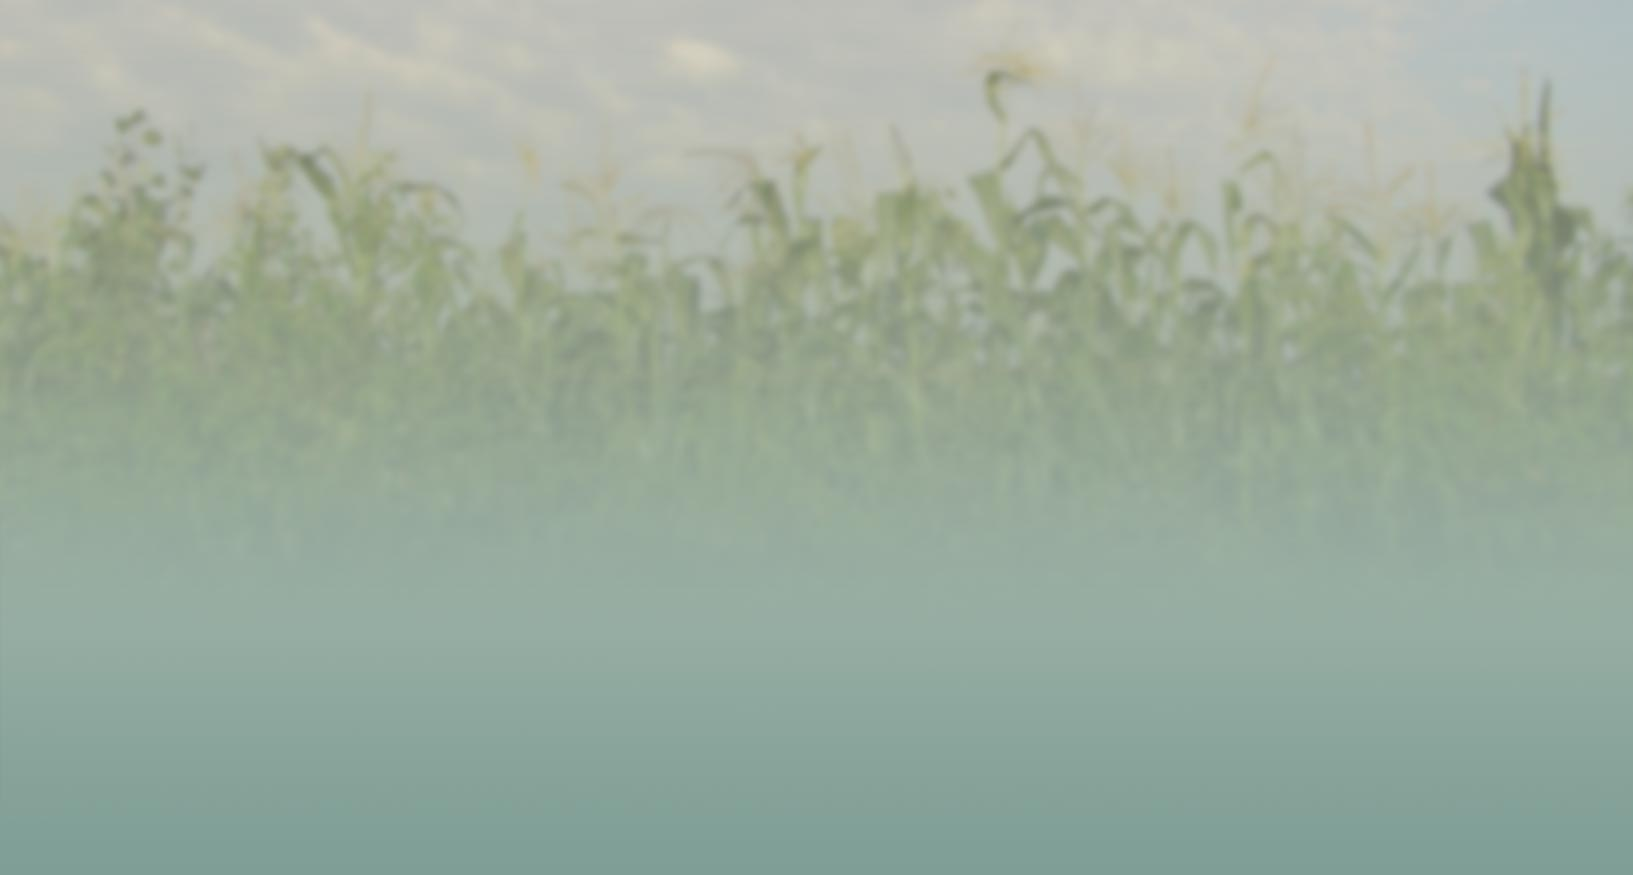
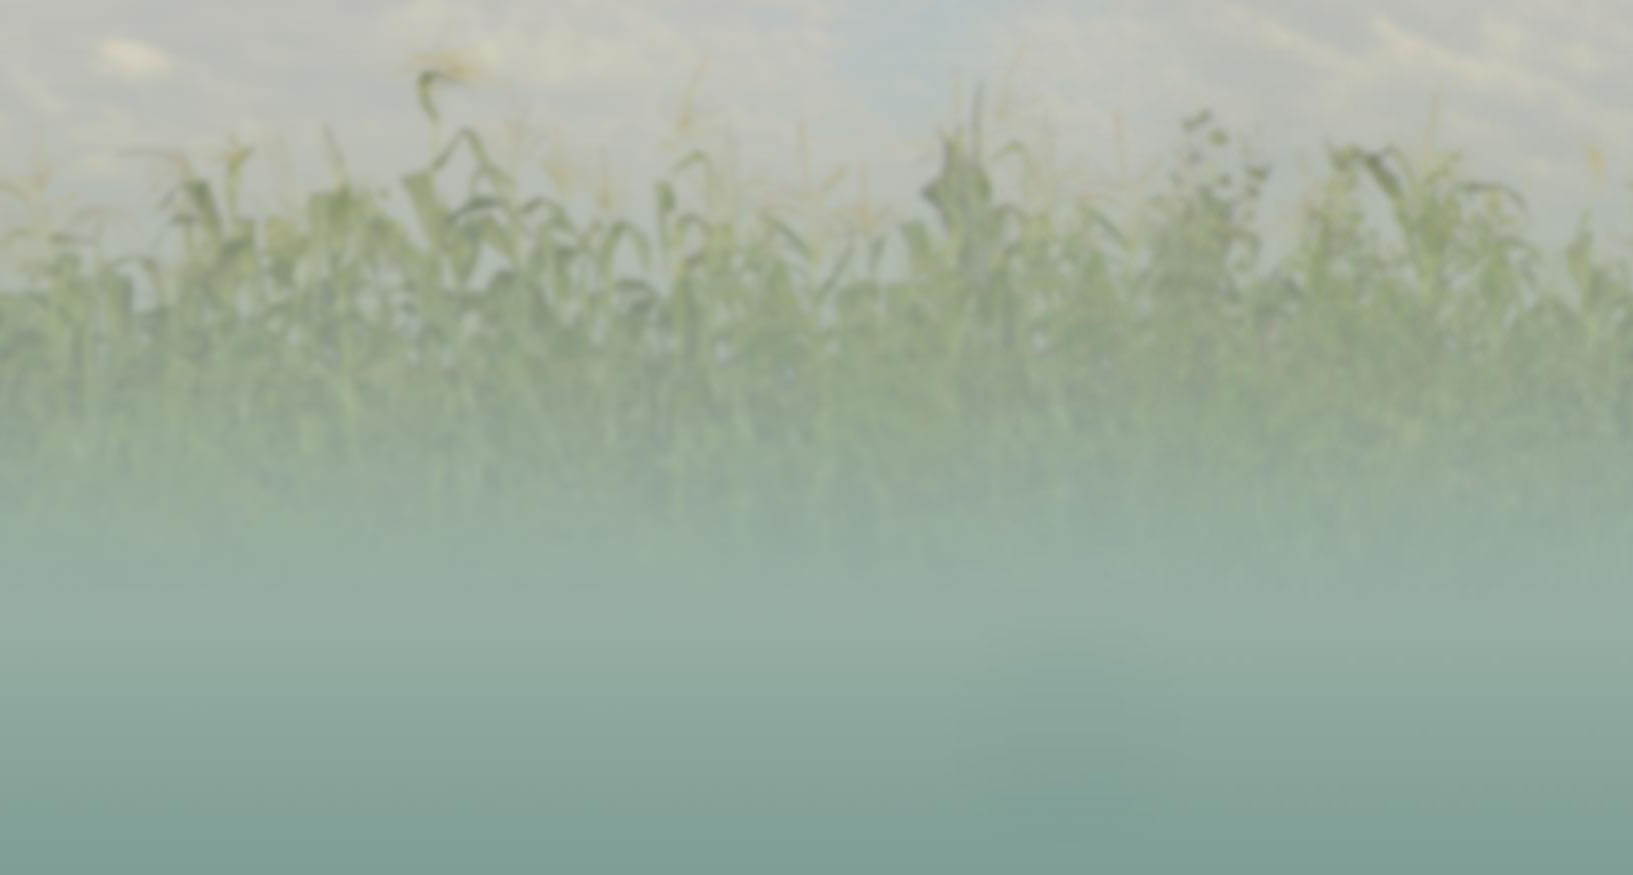
more size editing for smaller screens

diff --git a/wp-content/themes/chapeau/style.css b/wp-content/themes/chapeau/style.css
@@ -7,7 +7,54 @@ Version: 1.0.0
 Tags: Agriculture Society
 */
 
+/* http://meyerweb.com/eric/tools/css/reset/ 
+   v2.0 | 20110126
+   License: none (public domain)
+*/
 
+html, body, div, span, applet, object, iframe,
+h1, h2, h3, h4, h5, h6, p, blockquote, pre,
+a, abbr, acronym, address, big, cite, code,
+del, dfn, em, img, ins, kbd, q, s, samp,
+small, strike, strong, sub, sup, tt, var,
+b, u, i, center,
+dl, dt, dd, ol, ul, li,
+fieldset, form, label, legend,
+table, caption, tbody, tfoot, thead, tr, th, td,
+article, aside, canvas, details, embed, 
+figure, figcaption, footer, header, hgroup, 
+menu, nav, output, ruby, section, summary,
+time, mark, audio, video {
+	margin: 0;
+	padding: 0;
+	border: 0;
+	font-size: 100%;
+	font: inherit;
+	vertical-align: baseline;
+}
+/* HTML5 display-role reset for older browsers */
+article, aside, details, figcaption, figure, 
+footer, header, hgroup, menu, nav, section {
+	display: block;
+}
+body {
+	line-height: 1;
+}
+ol, ul {
+	list-style: none;
+}
+blockquote, q {
+	quotes: none;
+}
+blockquote:before, blockquote:after,
+q:before, q:after {
+	content: '';
+	content: none;
+}
+table {
+	border-collapse: collapse;
+	border-spacing: 0;
+}
 
 .clearfix:before,
 .clearfix:after {
@@ -74,11 +121,9 @@ figcaption {
 }
 
 html {
-	background:url("images/HTML_background_image.jpg") no-repeat top center;
-	background-size:100% 100%;
+	background:url("images/HTML_background_image.jpg") repeat-x top center;
 	background-color:#809f96;
 	font: normal 100%/1.5 sans-serif;
-	height:100%;
 }
 
 body {
@@ -86,11 +131,17 @@ body {
 	padding:0;
 	text-align:center;
 /*	font-family:"Copperplate Gothic";
-*/	width:1152px;
-	min-height:720px;
+*/	
 	
 	position:relative;
 }
+
+.all {
+	width:1152px;
+	height:720px;
+	margin:0 auto;
+}
+
 
 .top {
 	position:absolute;

diff --git a/wp-content/themes/chapeau/footer.php b/wp-content/themes/chapeau/footer.php
@@ -1,8 +1,6 @@
 	<div class="right">Events</div>
 </article>
 
-<div id="farmhouse"> </div>
-<div id="haybail"> </div>
 
 <footer class="bottom">
 	<div class="footercontent">Societe D'Agriculture de <span>Chapeau</span> Agricultural Society
@@ -10,12 +8,19 @@
     </div>
 </footer>
 
+<div id="farmhouse"> </div>
+<div id="haybail"> </div>
+
+
+
   <script src="https://ajax.googleapis.com/ajax/libs/jquery/1.7.0/jquery.min.js"></script>
   <script src="<?php sd(); ?>/js/jquery.centredscroller.min.js"></script>
 <!--  <script>$('.slideshow').centredScroller({autoAdvance:3000});</script> -->
 <!--  <script>$('.aboutslideshow').centredScroller({autoAdvance:3000});</script> -->
 
 <?php wp_footer(); ?>
+
+</div>
 
 </body>
 </html>

diff --git a/wp-content/themes/chapeau/header.php b/wp-content/themes/chapeau/header.php
@@ -13,6 +13,9 @@
 	<h1 class="topLinks"><a href="#">Francais</a><a href="#">English</a></h1>
 </header>
 
+<div class="all">
+
+
 
 <div class="left">
 	<nav class="wrapper">
@@ -28,3 +31,4 @@
 			?>
 	</nav>
 </div>
+
